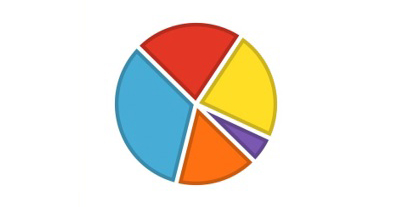
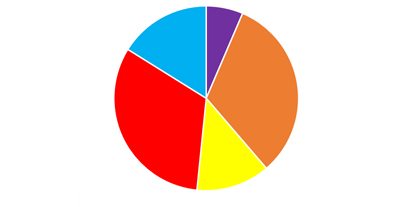
versao 4

diff --git a/contate.html b/contate.html
@@ -1,0 +1,84 @@
+<!DOCTYPE html>
+<html lang="en">
+<head>
+    <meta charset="UTF-8">
+    <meta http-equiv="X-UA-Compatible" content="IE=edge">
+    <meta name="viewport" content="width=device-width, initial-scale=1.0">
+    <title>Portal Interativo sobre Fraudes Bancárias</title>
+    <link href="style.css" type="text/css" rel="stylesheet" />
+</head>
+<body>
+    
+    <div id="topo">
+        <div id="logo">
+            <a href="index.html"><img src="logo.png" border="0"/></a>
+        </div>
+        <nav class="menu">
+            <ul>
+                <li><a href="index.html">Home</a></li>
+                <li><a href="ranking.html">Ranking de Fraudes</a></li>
+                <li><a href="formulario.html">Formulário</a></li>
+                <li><a href="relatorio.html">Relatório Estatístico</a></li>
+                <li><a href="sobre.html">Sobre</a></li>
+            </ul>
+        </nav>
+
+    </div><!--fecha topo -->
+
+    <div id="ranking">
+        <h1>Contate</h1>
+
+        <p>Em caso de ter sido vítima
+            de fraude financeira em
+            transações online, entre em contato com os seguintes telefones:
+        </p>
+        <p><b>Telefones e links úteis:</b></p>
+        <p>Polícia Civil – 147</p>
+        <p>Polícia Militar – 190</p>
+        <p>Defesa do Consumidor - Procon – 151</p>
+        <hr><p></p>
+        <p><b>Telefones de bancos</b></p>
+        <p>Banco do Brasil - 0800 729 0722. <a href="https://web.whatsapp.com/send?phone=556140040001" target="_blank"><br>
+            <img src="whatsapp.png" width="30"> Whatsapp</a></p>
+        <p>Caixa - 0800 726 0101. <a href="https://web.whatsapp.com/send?phone=5508001040104" target="_blank"><br>
+            <img src="whatsapp.png" width="30"> Whatsapp</a></p>
+        <p>Bradesco - 0800 704 8383. <a href="https://web.whatsapp.com/send?phone=551133350237" target="_blank"><br>
+            <img src="whatsapp.png" width="30"> Whatsapp</a></p>
+        <p>Itaú - 0800 728 0728. <a href="https://web.whatsapp.com/send?phone=551140044828" target="_blank"><br>
+            <img src="whatsapp.png" width="30"> Whatsapp</a></p>
+        <p>Santander - 0800 762 7777. <a href="https://web.whatsapp.com/send?phone=551140043535" target="_blank"><br>
+            <img src="whatsapp.png" width="30"> Whatsapp</a></p>
+        <p>Banco Mercantil do Brasil - 0800 70 70 398. <a href="https://web.whatsapp.com/send?phone=5508007070398" target="_blank"><br>
+            <img src="whatsapp.png" width="30"> Whatsapp</a></p>
+        <p>HSBC - 0800 703 4722</p>
+        <p>Banco Safra - 0800 772 5755. <a href="https://web.whatsapp.com/send?phone=551131758248" target="_blank"><br>
+            <img src="whatsapp.png" width="30"> Whatsapp</a></p>
+        <p>Banco Pan - 0800 776 8000. <a href="https://web.whatsapp.com/send?phone=551140027799" target="_blank"><br>
+            <img src="whatsapp.png" width="30"> Whatsapp</a></p>
+        <p>Citibank - 0800 979 2484</p>
+        <hr><p></p>
+        <p>Para fazer boletim de ocorrência online - <a href="https://www.delegaciaeletronica.policiacivil.sp.gov.br/ssp-de-cidadao/home" target="_blank">Clique aqui</a></p>
+        <hr><p></p>
+        <p>Vídeo: Como fazer um boletim online</p>
+        <p><iframe width="560" height="315" src="https://www.youtube.com/embed/ezVwydZTuOk" title="YouTube video player" frameborder="0" 
+            allow="accelerometer; autoplay; clipboard-write; encrypted-media; gyroscope; picture-in-picture" allowfullscreen></iframe></p>
+
+    </div><!--fecha ranking -->
+
+    <footer>
+        <div id="info">
+            <p><b>Sobre nós</b></p>
+            <p>Somos estudantes de <br>Engenharia da Computação <br>da <a href="https://univesp.br/" target="_blank" >UNIVESP.</a></p>
+        </div>
+
+        <div id="links">
+            <p><b>Principais Links</b></p><br><br>
+            <a href="https://antifraudes.febraban.org.br/?gclid=EAIaIQobChMIu5rLhJLp8wIVS7LICh3sGQppEAAYAyAAEgLREfD_BwE" target="_blank">Dicas Anti-golpes</a><br>
+            <a href="https://globoplay.globo.com/v/9867521/?s=0s" target="_blank">Reportagem sobre fraudes no Brasil</a><br>
+            <a href="https://www.cnnbrasil.com.br/tudo-sobre/fraudes-bancarias/">Notícias sobre fraudes bancárias</a><br>
+        </div>
+
+    </footer><!--fecha rodape -->
+
+</body>
+</html>

diff --git a/ranking.html b/ranking.html
@@ -18,7 +18,7 @@
                 <li><a href="index.html">Home</a></li>
                 <li><a href="ranking.html">Ranking de Fraudes</a></li>
                 <li><a href="formulario.html">Formulário</a></li>
-                <li><a href="#">Relatório Estatístico</a></li>
+                <li><a href="relatorio.html">Relatório Estatístico</a></li>
                 <li><a href="sobre.html">Sobre</a></li>
             </ul>
         </nav>
@@ -28,12 +28,13 @@
     <div id="ranking">
         <h1>Ranking de Fraudes</h1>
 
-        <p>Escrever introdução</p>
-        <p>Escrever introdução</p>
-        <p>Escrever introdução</p>
-        <p></p>
-
-        <img src="ranking.jpg" width="900"/>
+        <p>No dia 24 de junho de 2021, o site G1 da <a href="http://www.globo.com/">globo.com</a> publicou uma matéria na página Economina sobre o ranking das fraudes 
+            financeiras mais recorrentes no Brasil. Uma pesquisa recente feita pela Confederação Nacional De Dirigentes Lojistas – CNDL e Serviço De 
+            Proteção Ao Crédito - SPC (2021), entre 15 de abril e 30 de abril de 2021, 
+            foram entrevistados 949 internautas com idade igual ou maior de 18 anos, todas classes econômicas, todas capitais.</p>
+        <p>Os resultados obtidos em %(percentual) dos entrevistados pela pesquisa são:</p>
+  
+        <img src="ranking.jpg" width="800"/>
     </div><!--fecha ranking -->
 
     <footer>
@@ -44,10 +45,9 @@
 
         <div id="links">
             <p><b>Principais Links</b></p><br><br>
-            <a href="#">Link útil</a><br>
-            <a href="#">Link útil</a><br>
-            <a href="#">Link útil</a><br>
-            <a href="#">Link útil</a>
+            <a href="https://antifraudes.febraban.org.br/?gclid=EAIaIQobChMIu5rLhJLp8wIVS7LICh3sGQppEAAYAyAAEgLREfD_BwE" target="_blank">Dicas Anti-golpes</a><br>
+            <a href="https://globoplay.globo.com/v/9867521/?s=0s" target="_blank">Reportagem sobre fraudes no Brasil</a><br>
+            <a href="https://www.cnnbrasil.com.br/tudo-sobre/fraudes-bancarias/">Notícias sobre fraudes bancárias</a><br>
         </div>
 
     </footer><!--fecha rodape -->

diff --git a/relatorio.html b/relatorio.html
@@ -25,38 +25,22 @@
 
     </div><!--fecha topo -->
 
-    <div id="bemvindo">
-        <div id="esquerda">
-            <p><b>Bem-vindo</b></p>
-            <p>O portal permite que qualquer pessoa acesse as informações e encaminhe os relatos de fraudes que tenha sido vítima.</p>
-            <p>Por meio do sistema, além de conhecer os tipos de fraudes mais comuns aplicadas contra os internautas que realizam
-                transações bancárias e compras online, terá dicas de como evitar o golpe, de contato em caso de ter sido a vítima e
-                links úteis.
-            </p>
-        </div>
+    <div id="ranking">
+        <h1>Relatório Estatístico</h1>
 
-        <div id="direita">
-            <a href="relatorio.html"><img src="grafico.jpg" border="0"/></a>
-        </div>
-    </div><!--fecha bemvindo -->
+        <p>Conteúdo</p>
+        <p>Conteúdo</p>
+        <p>Conteúdo</p>
+        <p>Conteúdo</p>
+        <p>Conteúdo</p>
+        <p>Conteúdo</p>
+        <p>Conteúdo</p>
+        <p>Conteúdo</p>
 
-    <div id="cards">
-        <div id="card1">
-            <p>Pesquisa recente destaca aumento de consumidores vítimas de fraudes financeiras.</p>
-            <a href="ranking.html">Golpes mais comuns</a>
-        </div>
+        
+        
 
-        <div id="card2">
-            <p>Você já caiu em golpe financeiro?<br>Conte-nos como foi <br>a sua experiência?</p>
-            <a href="formulario.html">Formulário</a>
-        </div>
-
-        <div id="card3">
-            <p>Em caso de ter sido vítima<br> de fraude financeira em <br>transações online.</p>
-            <a href="contate.html">Contate</a>
-        </div>
-
-    </div><!--fecha cards -->
+    </div><!--fecha ranking -->
 
     <footer>
         <div id="info">

diff --git a/formulario.html b/formulario.html
@@ -18,7 +18,7 @@
                 <li><a href="index.html">Home</a></li>
                 <li><a href="ranking.html">Ranking de Fraudes</a></li>
                 <li><a href="formulario.html">Formulário</a></li>
-                <li><a href="#">Relatório Estatístico</a></li>
+                <li><a href="relatorio.html">Relatório Estatístico</a></li>
                 <li><a href="sobre.html">Sobre</a></li>
             </ul>
         </nav>
@@ -80,12 +80,11 @@
 
         <div id="links">
             <p><b>Principais Links</b></p><br><br>
-            <a href="#">Link útil</a><br>
-            <a href="#">Link útil</a><br>
-            <a href="#">Link útil</a><br>
-            <a href="#">Link útil</a>
+            <a href="https://antifraudes.febraban.org.br/?gclid=EAIaIQobChMIu5rLhJLp8wIVS7LICh3sGQppEAAYAyAAEgLREfD_BwE" target="_blank">Dicas Anti-golpes</a><br>
+            <a href="https://globoplay.globo.com/v/9867521/?s=0s" target="_blank">Reportagem sobre fraudes no Brasil</a><br>
+            <a href="https://www.cnnbrasil.com.br/tudo-sobre/fraudes-bancarias/">Notícias sobre fraudes bancárias</a><br>
         </div>
-        </footer>
+    </footer>
 
     </div><!--fecha rodape -->
 

diff --git a/sobre.html b/sobre.html
@@ -18,7 +18,7 @@
                 <li><a href="index.html">Home</a></li>
                 <li><a href="ranking.html">Ranking de Fraudes</a></li>
                 <li><a href="formulario.html">Formulário</a></li>
-                <li><a href="#">Relatório Estatístico</a></li>
+                <li><a href="relatorio.html">Relatório Estatístico</a></li>
                 <li><a href="sobre.html">Sobre</a></li>
             </ul>
         </nav>
@@ -55,10 +55,9 @@
 
         <div id="links">
             <p><b>Principais Links</b></p><br><br>
-            <a href="#">Link útil</a><br>
-            <a href="#">Link útil</a><br>
-            <a href="#">Link útil</a><br>
-            <a href="#">Link útil</a>
+            <a href="https://antifraudes.febraban.org.br/?gclid=EAIaIQobChMIu5rLhJLp8wIVS7LICh3sGQppEAAYAyAAEgLREfD_BwE" target="_blank">Dicas Anti-golpes</a><br>
+            <a href="https://globoplay.globo.com/v/9867521/?s=0s" target="_blank">Reportagem sobre fraudes no Brasil</a><br>
+            <a href="https://www.cnnbrasil.com.br/tudo-sobre/fraudes-bancarias/">Notícias sobre fraudes bancárias</a><br>
         </div>
 
     </footer><!--fecha rodape -->

diff --git a/style.css b/style.css
@@ -152,14 +152,25 @@ body{
     font-family: 'Calibri', 'Courier New', Courier, monospace;
     color:#000;
     font-size: 120%;
-    margin: 0 0 20px 0;
+    margin: 0 7% 20px 7%;
+    text-align: justify;
 }
 
-    #ranking h1{
-        font-family: 'Calibri', 'Courier New', Courier, monospace;
+#ranking a{
+    color:#000;
+    text-decoration: none;
+}
+
+    #ranking a:hover{
         color:#000;
-        margin:20px 0 20px 0px;
+        text-decoration: underline;
     }
+
+#ranking h1{
+    font-family: 'Calibri', 'Courier New', Courier, monospace;
+    color:#000;
+    margin:20px 0 20px 0px;
+}
 
 #sobre p{
     font-family: 'Calibri', 'Courier New', Courier, monospace;
